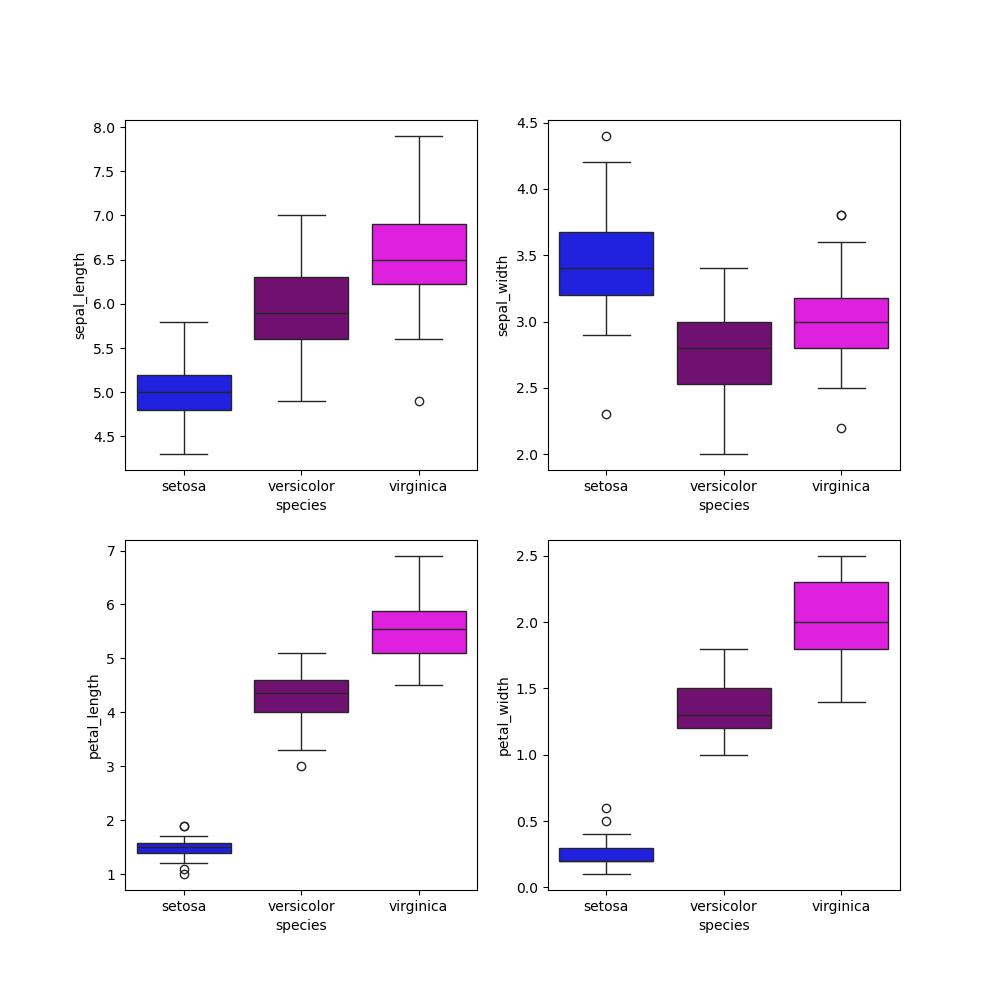
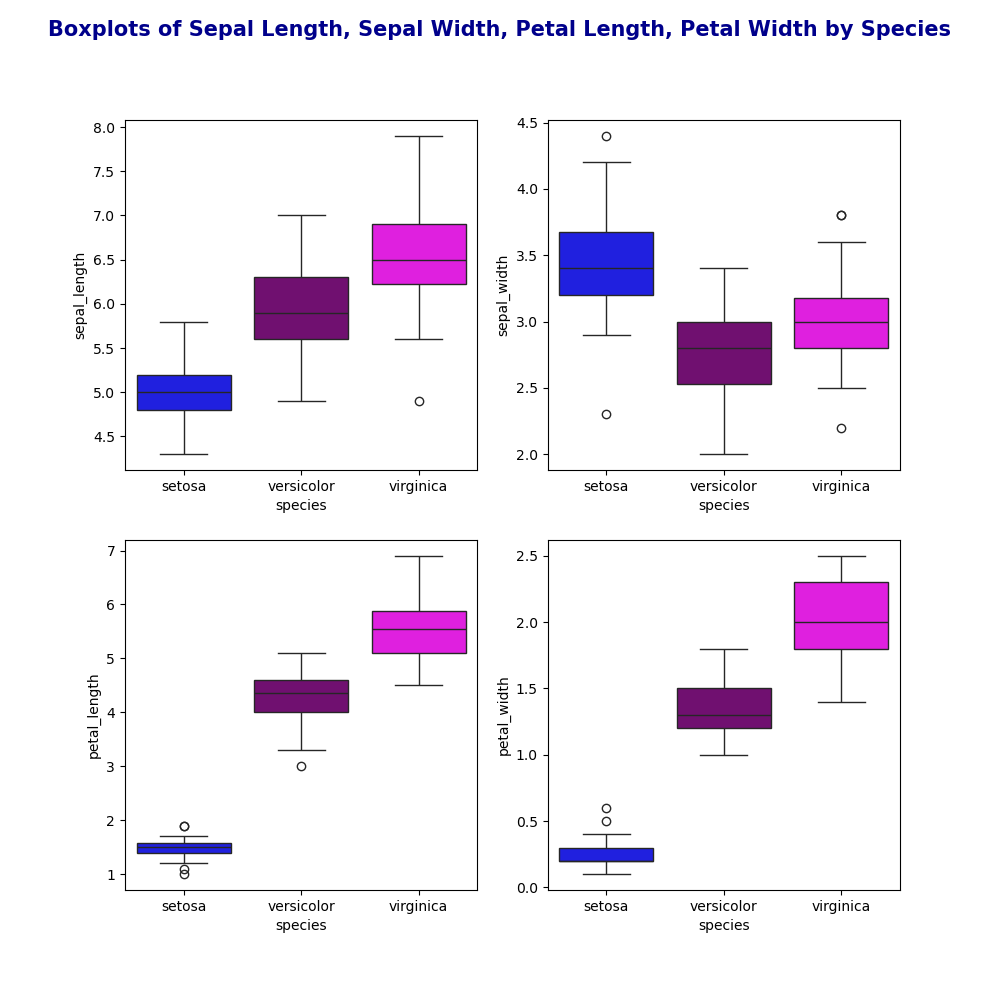
updated readme

Changed region(s): [[0.031, 0.0, 0.651, 0.062], [0.682, 0.0, 0.961, 0.062]]

diff --git a/analysis.py b/analysis.py
@@ -134,6 +134,7 @@ sns.boxplot(data=df, x='species', y='sepal_length', ax=ax[0, 0], hue='species', 
 sns.boxplot(data=df, x='species', y='sepal_width', ax=ax[0, 1], hue='species', palette={'setosa': 'blue', 'versicolor': 'purple', 'virginica': 'magenta'} )
 sns.boxplot(data=df, x='species', y='petal_length', ax=ax[1, 0], hue='species', palette={'setosa': 'blue', 'versicolor': 'purple', 'virginica': 'magenta'} )
 sns.boxplot(data=df, x='species', y='petal_width', ax=ax[1, 1], hue='species', palette={'setosa': 'blue', 'versicolor': 'purple', 'virginica': 'magenta'} )
+plt.suptitle('Boxplots of Sepal Length, Sepal Width, Petal Length, Petal Width by Species', color='darkblue', fontsize=15, fontweight='bold')
 plt.savefig('boxplots.png')
 plt.close()
 

diff --git a/README.md b/README.md
@@ -38,14 +38,14 @@ The Iris dataset is a multivariate dataset consisting of 50 samples from three s
 
 ###    1. Import libraries:
 
-[Pandas]('https://pandas.pydata.org/docs/user_guide/10min.html') is a python library for data manipulation and analysis built on top of Numpy.It is used for the dataFrame datastructure. 
+[Pandas](https://pandas.pydata.org/docs/user_guide/10min.html) is a python library for data manipulation and analysis built on top of Numpy.It is used for the dataFrame datastructure. 
 A dataframe is a 2D labelled data structure with columns of different data types, similar to a spreadsheet where each column represents a variable and each row represents an observation.
 
-[Numpy]('https://numpy.org/doc/stable/user/whatisnumpy.html') is a powerful library for the numerical computing of Python.
+[Numpy](https://numpy.org/doc/stable/user/whatisnumpy.html) is a powerful library for the numerical computing of Python.
 
-[Matplotlib]('https://www.w3schools.com/python/matplotlib_intro.asp') is a graph plotting library in Python.
+[Matplotlib](https://www.w3schools.com/python/matplotlib_intro.asp) is a graph plotting library in Python.
 
-[Seaborn]('https://www.w3schools.com/python/numpy/numpy_random_seaborn.asp') is a library that uses Matplotlb underneath to plot graphs. 
+[Seaborn](https://www.w3schools.com/python/numpy/numpy_random_seaborn.asp) is a library that uses Matplotlb underneath to plot graphs. 
 
 ###    2. Load the dataset:
 
@@ -58,7 +58,7 @@ The summary of the dataset was sent to a text file. Refer to summary_irisdata.tx
 
 ### 4. Summary Statistics:
 ***
-The [describe()]('https://pandas.pydata.org/pandas-docs/version/0.20.2/generated/pandas.DataFrame.describe.html') function in pandas generates descriptive statistics of the dataFrame giving a summary of the central tendency, dispersion and shape of the distribution of the dataset. 
+The [describe()](https://pandas.pydata.org/pandas-docs/version/0.20.2/generated/pandas.DataFrame.describe.html) function in pandas generates descriptive statistics of the dataFrame giving a summary of the central tendency, dispersion and shape of the distribution of the dataset. 
 
 
 
@@ -77,7 +77,7 @@ For sepal length and sepal width the mean and medians are close indicating a mor
 ### 5. Data Visualisation:
 ***
 
-[Histograms]('https://www.w3schools.com/statistics/statistics_histograms.php') show the distribution of numerical data by grouping data points that lie within a range of values in to a bin. The higher the bar the greater the frequency of values.
+[Histograms](https://www.w3schools.com/statistics/statistics_histograms.php) show the distribution of numerical data by grouping data points that lie within a range of values in to a bin. The higher the bar the greater the frequency of values.
 
 
 <p float='left'>
@@ -124,7 +124,7 @@ While petal width had less skewedness and a lower standard deviation than petal 
 ***
 
 
-[Boxplots]('https://www.w3schools.com/statistics/statistics_box_plots.php') show the distribution of data by displaying the minimum and maximum value, the first Quartile (25%: the lower part of the box), third quartile (75%: the upper area of the box), the median (50%: represented by a line inside the box). Boxplots give a visual summary of the data distribution and the presence of skewness/outliers. Outliers can be identified using boxplots or calculations using the Inter-quartile range.
+[Boxplots](https://www.w3schools.com/statistics/statistics_box_plots.php) show the distribution of data by displaying the minimum and maximum value, the first Quartile (25%: the lower part of the box), third quartile (75%: the upper area of the box), the median (50%: represented by a line inside the box). Boxplots give a visual summary of the data distribution and the presence of skewness/outliers. Outliers can be identified using boxplots or calculations using the Inter-quartile range.
 
 <img src='boxplots.png' width=800 height=800>
 
@@ -135,7 +135,7 @@ From the boxplots, outliers can be seen across certain species and features with
 
 ***
 
-A [Pairplot]('https://www.geeksforgeeks.org/python-seaborn-pairplot-method/') is used to see if there is any relationships between two variables. 
+A [Pairplot](https://www.geeksforgeeks.org/python-seaborn-pairplot-method/) is used to see if there is any relationships between two variables. 
 The plots are in a scatterplot matrix grid format where the row name represents the x-axis and column name represents the y-axis. The main diagonal subplots are the histogram distributions for each variable. 
 
 <img src='pairplot.png' height=500 width=600>
@@ -151,22 +151,21 @@ There appears to be a positive linear relationship between petal width and petal
 
 ***
 
-A [Heatmap]('https://seaborn.pydata.org/generated/seaborn.heatmap.html') is used to visualise correlations between variables. 
+A [Heatmap](https://seaborn.pydata.org/generated/seaborn.heatmap.html) is used to visualise correlations between variables. 
+[Correlation](https://en.wikipedia.org/wiki/Pearson_correlation_coefficient) coefficients indicate the strength and direction of the linear relationship between the variables. Positive correlation indicates that as one variable increases the other variable tends to increase also. 
 
 <img src='correlation_heatmap.png' height=600 width=600>
 
 
 
 
-[Correlation](https://en.wikipedia.org/wiki/Pearson_correlation_coefficient) coefficients indicate the strength and direction of the linear relationship between the variables. Positive correlation indicates that as one variable increases the other variable tends to increase also. 
 
 A correlation of 0.96 is seen for petal length vs petal width. This is a near perfect positive correlation that is close to 1 between the variables. The closer a value is to 1 the higher the correlation. This means that as petal length increases petal width increases also. These features are very closely related, by knowing the petal length it would allow you to predict the petal width with a high degree of accuracy. 
-
 In addition, there is a very strong positive correlation between sepal length and petal length at 0.87 which indicates that as the sepal length increases the petal length also tends to increase. Although the relationship is not as strong as between petal length and petal width there is a significant linear relationship between the variables. 
-There is also a strong positive correlation between sepal length and petal width at 0.82 which sugests that there is a significant linear relationship between sepal length and petal width. 
+There is also a strong positive correlation between sepal length and petal width at 0.82 which suggests that there is a significant linear relationship between sepal length and petal width. 
 
 
-Scatterplots are used to identify correlations between two variables.
+[Scatterplots](https://en.wikipedia.org/wiki/Scatter_plot) are used to identify correlations between two variables.
 
 <img src='scatterplot_petal.png' height=500 width=600>
 
@@ -185,12 +184,26 @@ When separated based on species, the blue cluster at the bottom right is confirm
 
 
 
-The analysis shows that Iris Setosa is linearly separable from Iris Versicolor and Iris Virginica with no overlap observed in its petal length and petal width. This clear separation makes it easily distinguishable from Iris Versicolor and Iris Virginica which show more overlap. Iris Setosa also appears to have less overlap in sepal measurements than Iris Virginica and Iris Versicolor which contributes to its sepearation from the other species.  
+The analysis shows that Iris Setosa is linearly separable from Iris Versicolor and Iris Virginica with no overlap observed in its petal length and petal width. This clear separation makes it easily distinguishable from Iris Versicolor and Iris Virginica which show more overlap. Iris Setosa also appears to have less overlap in sepal measurements than Iris Virginica and Iris Versicolor which contributes to its separation from the other species.  
 The high correlation of 0.96 for petal length vs petal width indicates a near perfect linear relationship between these features which suggests that they are closely related and changes in petal length would indicate changes in petal width. The strong linear relationship between these features suggest they could be used in predictive models. In addition, sepal length shows strong correlations with both petal length and petal width suggesting that predictive models using these features may be effective. 
 
+***
+
+### End
 
 #### References:
 
 
-***
-<
+https://pandas.pydata.org/docs/reference/api/pandas.DataFrame.html
+
+https://seaborn.pydata.org/
+
+https://www.datacamp.com/cheat-sheet/matplotlib-cheat-sheet-plotting-in-python
+
+https://en.wikipedia.org/wiki/Iris_flower_data_set
+
+https://www.datacamp.com/cheat-sheet/matplotlib-cheat-sheet-plotting-in-python
+
+http://www.lac.inpe.br/~rafael.santos/Docs/CAP394/WholeStory-Iris.html
+
+https://www.geeksforgeeks.org/python-basics-of-pandas-using-iris-dataset/
